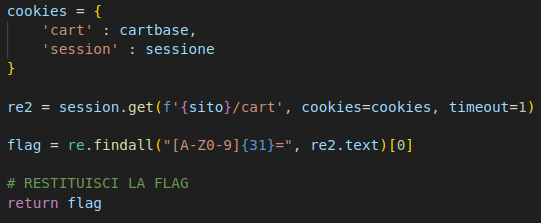
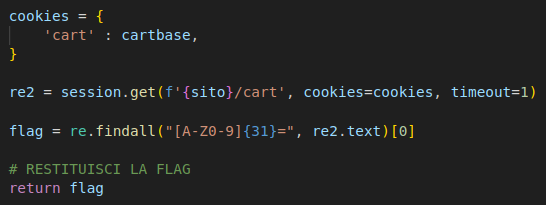
gadgethorse2 added

diff --git a/FINALE/exploits/exp_gadgethorse2.py b/FINALE/exploits/exp_gadgethorse2.py
@@ -221,16 +221,14 @@ def get_flag(ip, port, hint):# PASSAGGI NECESSARI A PRELEVARE UNA FLAG
     session = requests.Session()
 
     r = session.post(f'{sito}/signup', data=credentials, timeout=1)
-    sessione = r.cookies.get_dict()['session']
 
-    cookiees = {
+    cookies = {
         'cart' : 'W3sicXR5IjoxLCJpZCI6ImN5YmVyY2hhbGxlbmdlIn1d',
-        'session' : sessione
     }
 
-    re2 = session.get(f'{sito}/order/{prodotto}/__data.json', cookies=cookiees, timeout=1)
+    re2 = session.get(f'{sito}/order/{prodotto}/__data.json', cookies=cookies, timeout=1)
 
-    flag = re.findall("[A-Z0-9]{31}=", re2.text)[0] or ""
+    flag = re.findall("[A-Z0-9]{31}=", re2.text)[0]
 
     # RESTITUISCI LA FLAG
     return flag

diff --git a/FINALE/exploits/exp_gadgethorse1.py b/FINALE/exploits/exp_gadgethorse1.py
@@ -222,13 +222,12 @@ def get_flag(ip, port, hint):
 	session = requests.Session()
 
 	r = session.post(f'{sito}/signup', data=credentials, timeout=1)
-	sessione = r.cookies.get_dict()['session']
+	
 	cart = '[{"qty":1,"id":"' + prodotto + '"}]'
 	cartbase = base64.b64encode(cart.encode()).decode()
 	
 	cookies = {
 		'cart' : cartbase,
-		'session' : sessione
 	}
 
 	re2 = session.get(f'{sito}/cart', cookies=cookies, timeout=1)

diff --git a/FINALE/README.md b/FINALE/README.md
@@ -2,7 +2,7 @@
 
 La gara nazionale di CyberChallengeIT svolta il 29/06/2023 al campus ILO di Torino ha visto la presenza di 4 servizi sviluppati che mettevano a disposizione 7 flag stores differenti (alcuni servizi avevano più di un flag store, al contrario di tutte le edizioni precedenti in cui si aveva un solo flag store per ogni servizio per un totale di soli 4 flag stores).
 
-I servizi - che proponevano challenge relative alle categorie _web_, _crypto_ e _binary_ - erano i seguenti:
+I servizi - che proponevano challenge relative alle categorie _web_, _crypto_ e _pwn_ - erano i seguenti:
 * CheesyCheats (2 flag stores);
 * Gabibbi Towers (2 flag stores);
 * GadgetHorse (2 flag stores);
@@ -56,7 +56,8 @@ Si è deciso, quindi, di provare ad indovinare il primo carattere della password
 La patch per questo servizio prevede che la comparazione non sia fatta sui primi n caratteri della stringa ma su tutta la stringa. Bisogna quindi sostituire strlen(pass) con strlen(user.password)
 
 
-## GadgetHorse-1
+## GadgetHorse
+_Categoria: web_
 
 GadgetHorse è un'applicazione web, sviluppata col framework SvelteKit, che funge da e-commerce di sticker e magliette con stampe. 
 
@@ -64,13 +65,15 @@ GadgetHorse è un'applicazione web, sviluppata col framework SvelteKit, che fung
 
 Essa mette a disposizione alcune funzionalità come registrazione e login di utenti, acquisto di sticker predefiniti e creazione e acquisto di sticker e maglie personalizzate.
 
-### Vulnerabilità - Unsigned Cookie
+### GadgetHorse-1
+
+#### Vulnerabilità - Unsigned Cookie
 
 Questo primo flag store relativo a GadgetHorse, soffre di una vulnerabilità relativa al cookie del carrello. Lo stato del carrello veniva infatti memorizzato all'interno di un json, a sua volta salvato in un cookie che però non era firmato. Esso veniva solamente codificato in base64.
 
 ![alt text](imgs/gh1-cartcookie.png)
 
-### Exploit
+#### Exploit
 
 L'exploit costruito consisteva quindi nel creare un cookie custom del carrello inserendo un particolare id e trovando la flag nel prodotto - relativo a questo id - inserito nel carrello. Di seguito vediamo l'exploit nel dettaglio.
 
@@ -90,7 +93,7 @@ a questo punto bastava fare una richiesta all'endpoint "/cart" con i cookies rel
 
 ![alt text](imgs/gh_flag.png)
 
-### Patch
+#### Patch
 
 Per fixare questa vulnerabilità la soluzione ideale sarebbe stata quella di firmare il cookie del carrello. Tuttavia, per questioni di semplicità e velocità, (necessarie in questo tipo di competizione), la patch adottata è stata molto più semplice ma comunque altamente efficace. 
 
@@ -99,9 +102,36 @@ La soluzione attuata infatti prevedeva di rinominare il nome del cookie da "cart
 ![alt text](imgs/gh1_patch.png)
 
 
-## GadgetHorse-2
+### GadgetHorse-2
+
+#### Vulnerabilità - IDOR in SvelteKit endpoint
+
+Per rendere più veloce il caricamento di alcuni dati, SvelteKit fornisce un endpoint aggiuntivo raggiungibile con *__data.json*. Questo però è un problema perché rende l'applicazione vulnerabile ad IDOR (Insecure Direct Object References). Infatti, ciò fa in modo che l'applicazione utilizzi l'input fornito dall'utente per accedere direttamente agli oggetti.
+
+#### Exploit
+
+Sfruttando la vulnerabilità descritta è quindi stato possibile costruire l'exploit. Infatti, accedendo all'endpoint *"/order/\<productId\>/__data.json"*, veniva restituito un oggetto json che conteneva alcune informazioni, tra cui anche un indirizzo. All'interno di questo indirizzo c'era appunto la flag.
+
+Per quanto riguarda i dettagli dell'exploit, possiamo notare che, anche qui, per generare disturbi agli altri teams è stata fatta la registrazione di un utente casuale:
+
+![alt text](imgs/gh2_register.png)
+
+In seguito, è stata fatta la richiesta all'endpoint summenzionato, inserendo come productId, quello estrapolato dal flagId corrente. Inoltre, per generare altro "rumore", è stato utilizzato anche un cookie non necessario contenente il carrello *[{"qty":1,"id":"cyberchallenge"}]*.
+
+![alt text](imgs/gh2-flag.png)
+
+#### Patch
+
+Per fixare questa vulnerabilità, l'idea è stata quella di andare a rimuovere la possibilità di utilizzare l'endpoint relativo a *__data.json*. Per fare ciò è bastato aggiungere nella cartella _src_ un file denominato _hooks.server.js_ con il seguente contenuto:
+
+![alt text](imgs/gh2-patch.png)
+
+Ciò è servito per restituire risposte con codice 400 (Bad Request) ad ogni richiesta di tipo "data", cioè ogni richiesta verso questo endpoint.
+
 
 ## MineCClicker
+_Categoria: pwn_
+
 MineCClicker è una challenge della categoria pwn. E' una versione di prato fiorito. Viene fornito tramite un binario in C che rappresenta i server e un client scritto in Python. Il  servizio permetteva di fare le seguenti operazioni:
 
 - Registrarsi e fare il login.
@@ -125,15 +155,17 @@ Durante una partita, quando un utente trova la disposizione corretta delle bombe
 
 Le flag sono memorizzate nel campo segreto di alcune board specifiche, create dal verificatore.
 
-# Vulnerabilità - Giocare per sempre
+#### Vulnerabilità - Giocare per sempre
 Quando un utente scopre una cella e trova una bomba, il gioco dovrebbe terminare, ma il server non reimposta correttamente la variabile globale g_is_playing a false.
 
-Le exploit sfruttato da molte altre squadre della cyberchallenge è il seguente:
+#### Exploit
+
+L'exploit sfruttato da molte altre squadre della cyberchallenge è il seguente:
 - Scoprire celle casuali fino a trovare una bomba
 - Leggere la disposizione delle bombe
 - Inviare l'intera disposizione delle bombe al server e vincere la partita.
 
-La squadra ha però notato che non c'era bisogno di trovare per forza una bomba per poter ricevere la board con la posizione delle bombe, ma bastava fare una singola richiesta al server su una casella scelta a caso per ricevere tutte le posizione delle bombe, così da non dover perdere, giocando in maniera lecit al gioco per poi ricevere le bombe. L'exploit illustrato nella figura viene spiegato in dettaglio commentando le linee di codice:
+La squadra ha però notato che non c'era bisogno di trovare per forza una bomba per poter ricevere la board con la posizione delle bombe, ma bastava fare una singola richiesta al server su una casella scelta a caso per ricevere tutte le posizione delle bombe, così da non dover perdere, giocando in maniera lecita al gioco per poi ricevere le bombe. L'exploit illustrato nella figura viene spiegato in dettaglio commentando le linee di codice:
 
 ![Gatto carino](imgs/exploit.png)
 
@@ -177,22 +209,11 @@ Come si può facilmente evincere non c'è bisogno di perdere per poter ottenere 
 
 Per avviare l'exploit c'è bisogno di tutta la cartella client dato che utilizza le classi di utilità fornite per il client Python.
 
-# Patch
+#### Patch
 
 Modificare il binario per reimpostare correttamente la variabile globale g_is_playing su false all'interno della funzione uncover, nel caso in cui si becca una.
 
 ![Gatto carino](imgs/patch.png)
-
-
-
-
-
-
-
-
-
-
-
 
 
 ## CheesyCheats

diff --git a/simulazione2/README.md b/simulazione2/README.md
@@ -9,21 +9,22 @@ Ma si possono sfruttare le vulnerabilità per fingersi l'admin.
 
 ### Vulnerabilità 1- Carattere letto in più 
 La vulnerabilità si trova all'interno di questa funzione: 
+
 ![Gatto carino](img/vuln.png)
 
 Il problema è in questa riga:
 
-![Gatto carinp](img/riga.png)
+![Gatto carino](img/riga.png)
 
 Dato che il **g_admin_token** è in realtà lungo 17 char, si fa un BSS overflow andando a sovrascrivere la variabile globale **g_is_restricted** cambiandogli valore con un valore che sarà interpretato come false, dato che questa variabile se è messa a true indica che non si è un admin, se è messa a false indica che si è un admin.
 
 Il codice dell'exploit è così semplice da comprendere, oltre a tutte le operazioni da fare per navigare all'interno del menù, la riga seguente esegue il BSS overflow dato che passa 20 caretteri invece che 17:
 
-![Gatto carinp](img/BSS.png)
+![Gatto carino](img/BSS.png)
 
 Il codice completo:
 
-![Gatto carinp](img/e.png)
+![Gatto carino](img/e.png)
 
 
 

diff --git a/simulazione1/README.md b/simulazione1/README.md
@@ -1,4 +1,4 @@
-##MOOZ
+## MOOZ
 
 Mooz è una piattaforma per lo scambio di messaggi. 
 Un utente può:
@@ -21,6 +21,7 @@ La patch trovata prevedeva di inserire un valore errato molto alto in /get_publi
 
 ## CCMarket
 ![Gatto carino](img/logo.png)
+
 CCMarket è una challenge di pwn. In CCmarket dopo aver fatto l'accesso si ha disposizione una quota di soldi per acquistare oggetti e si può scegliere se accettare gli oggetti sul mercato oppure se creare oggetti da mettere sul mercato. Se acquistiamo gli oggetti forniti nei flagID si ottengono le flag, ovviamente non abbiamo a disposizione abbastanza soldi per acquistare i flagID, dato che il loro prezzo è MAX_INT di C. 
 
 
